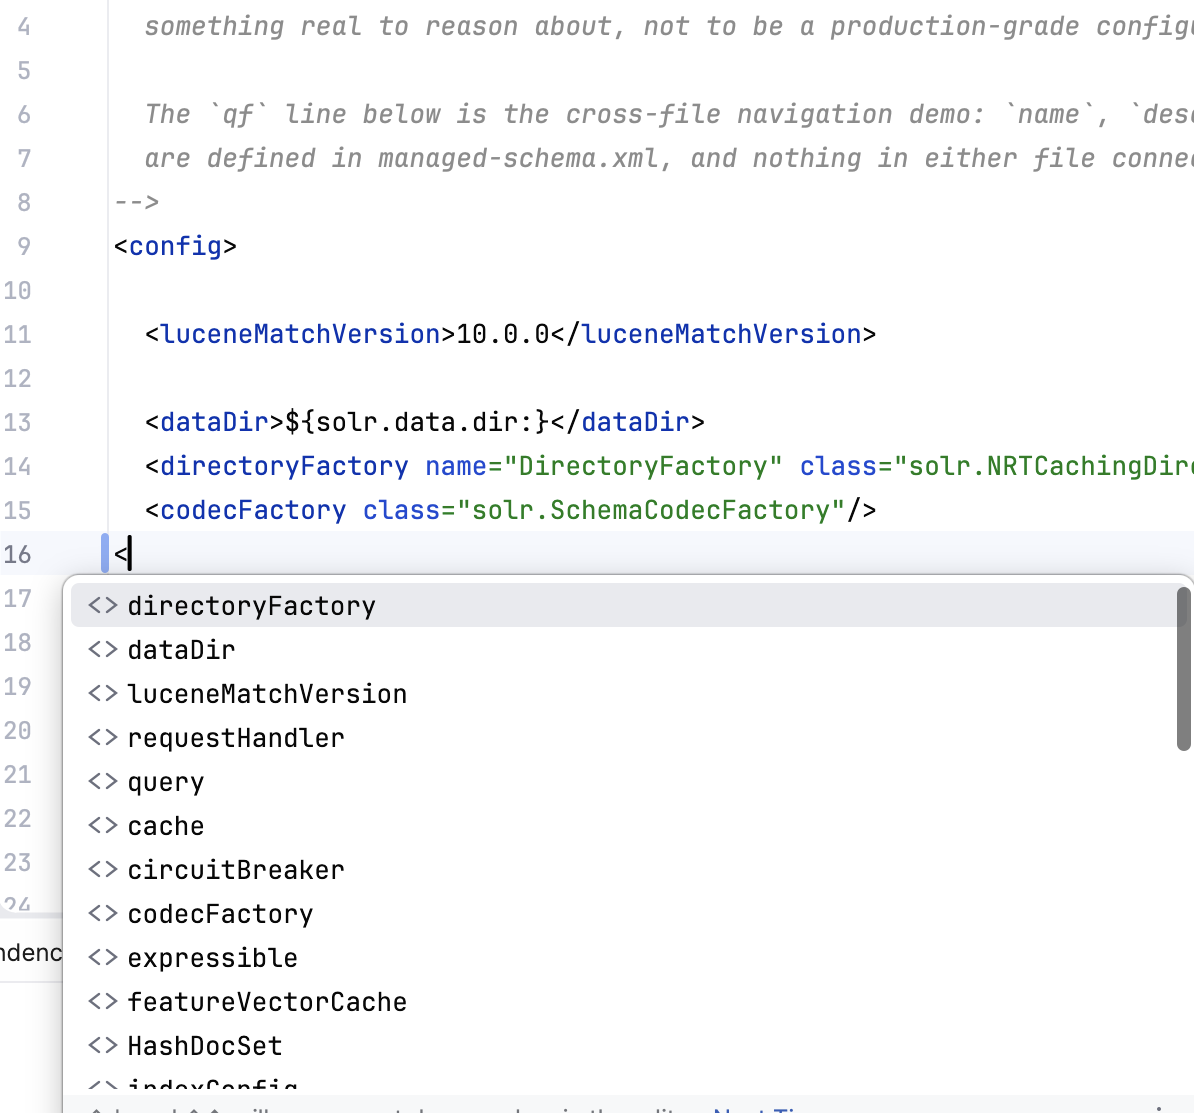
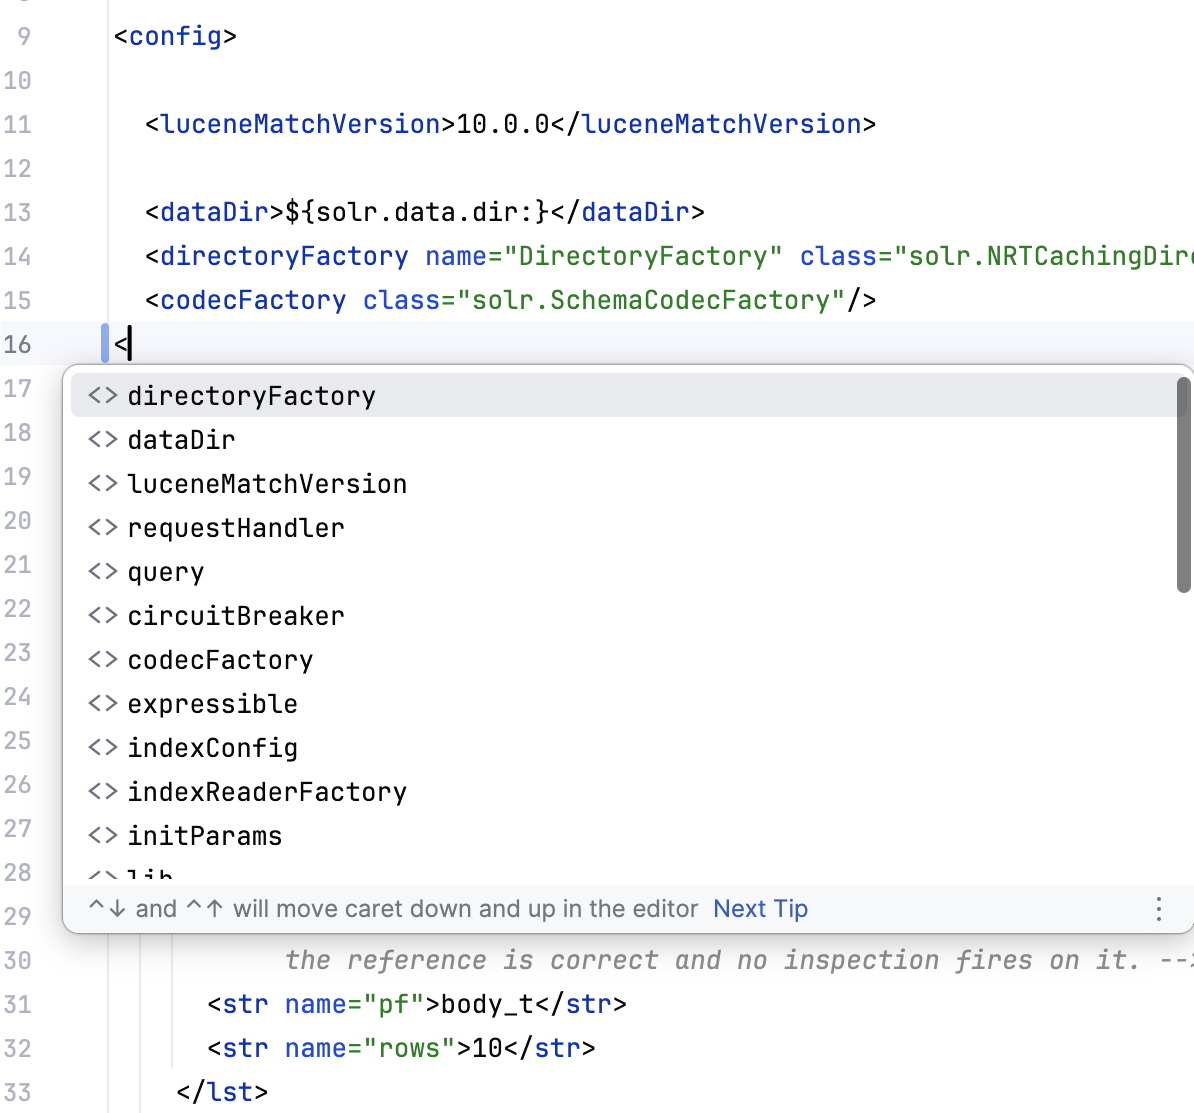
docs: reshoot the structure-completion capture against the fixed catalog
The previous capture showed `cache`, `featureVectorCache` and
`HashDocSet` offered directly inside `<config>`. The element-placement
fix moved all three under `<query>`, where Solr reads them, so the image
had begun demonstrating the bug rather than the feature — within an hour
of being taken, and in the same paragraph that had just been corrected
for a stale claim of its own.

The new capture is from a sandbox relaunched after the fix. All three are
absent; `indexReaderFactory`, `initParams` and `lib` surface in their
place. The tighter crop from the earlier fix is preserved.

Two things learned here are recorded in the catalog entry because they
will recur:

A running `runIde` does not reload a regenerated catalog resource. The
first reshoot attempt reproduced the old popup exactly and looked like
the fix had failed — a false regression report caught only because the
generated TSV on disk was checked before the result was believed. Anyone
recapturing this after a generator change must relaunch the sandbox.

And a screenshot rots in two independent ways: its crop and its contents.
This one went stale once for each.

`updateHandler` is dropped from the alt text in `README.md` and
`user-guide.md`. It is a legitimate top-level element and it is below the
fold in this frame, and alt text has to describe what is actually shown.

diff --git a/docs/screenshots.md b/docs/screenshots.md
@@ -286,14 +286,19 @@ earns a place only if the README wants a second navigation example.
 
 ### 10. `solrconfig.xml`'s own structure — `10-completion-solrconfig-structure.png`
 
-**⚠ Captured, but now stale again — reshoot before publishing.** The crop was fixed once already (the
-tab bar leaking `settings.gradle.kts (solr-plugin-demo)` was trimmed out), but the popup's *contents*
-have since gone stale for an unrelated reason: the catalog generator's element-placement fix, landed
-after this capture, moved `cache`, `featureVectorCache` and `HashDocSet` out from under `<config>` and
-under `<query>`, where all three actually belong. The image on disk still shows the pre-fix popup, so
-it now demonstrates the bug the fix removed rather than the feature. Reshoot against the current build
-before this ships, and correct this entry's **Shows** paragraph below against the reshoot's observed
-list rather than trusting either the old capture or this description.
+**✅ Captured, and reshot against the fixed catalog.** This image has now gone stale twice for two
+different reasons, which is worth recording because they are the two ways a screenshot rots. First the
+*crop* leaked `settings.gradle.kts (solr-plugin-demo)` from the tab bar. Then the *contents* went
+stale within the hour: the catalog generator's element-placement fix moved `cache`,
+`featureVectorCache` and `HashDocSet` out from under `<config>` and under `<query>`, where Solr
+actually reads them — so the capture began demonstrating the bug the fix removed rather than the
+feature. The current image is from a sandbox rebuilt after that fix, and all three are absent from it.
+
+**The reshoot needed a fresh sandbox, not just a rebuild.** A running `runIde` does not reload a
+regenerated catalog resource, so the first attempt reproduced the old popup perfectly and looked like
+the fix had failed. Anyone redoing this capture after a generator change must relaunch the sandbox,
+and should check `build/generated/solr-catalog-resources/solr-catalog/elements-10.tsv` on disk before
+concluding anything from what the popup shows.
 
 **Shows** the failure the platform's schema-less mode produces, replaced: typing `<` inside `<config>`
 offers Solr's own top-level vocabulary — `directoryFactory`, `dataDir`, `luceneMatchVersion`,

diff --git a/README.md b/README.md
@@ -98,7 +98,7 @@ marketplace listing rather than repeated here.
 ### `solrconfig.xml` completes its own structure, not the schema's echo
 
 ![Element completion inside the config element in solrconfig.xml, offering Solr's own top-level
-vocabulary — directoryFactory, query, requestHandler, updateHandler, luceneMatchVersion — rather than an
+vocabulary — directoryFactory, dataDir, luceneMatchVersion, requestHandler, query — rather than an
 echo of the sibling tags already written above the caret](docs/images/10-completion-solrconfig-structure.png)
 
 Before this shipped, the platform ran schema-less and guessed from whatever same-named tag happened

diff --git a/docs/user-guide.md b/docs/user-guide.md
@@ -225,7 +225,7 @@ own top-level vocabulary, not a copy of the handful of tags already written abov
 typed character afterwards. (`STR-1` through `STR-6`)
 
 ![Element completion inside the config element in solrconfig.xml offering Solr's own top-level
-vocabulary — query, requestHandler, directoryFactory, updateHandler — not an echo of sibling
+vocabulary — query, requestHandler, directoryFactory, luceneMatchVersion — not an echo of sibling
 tags](images/10-completion-solrconfig-structure.png)
 
 ### Field names inside `solrconfig.xml` parameters
